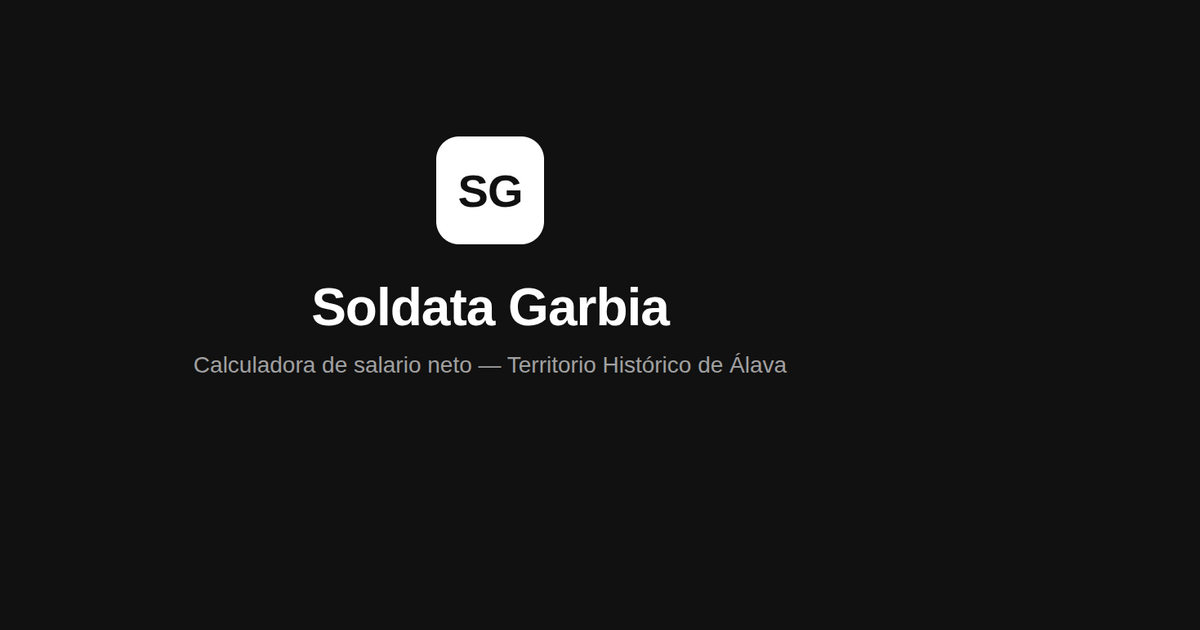
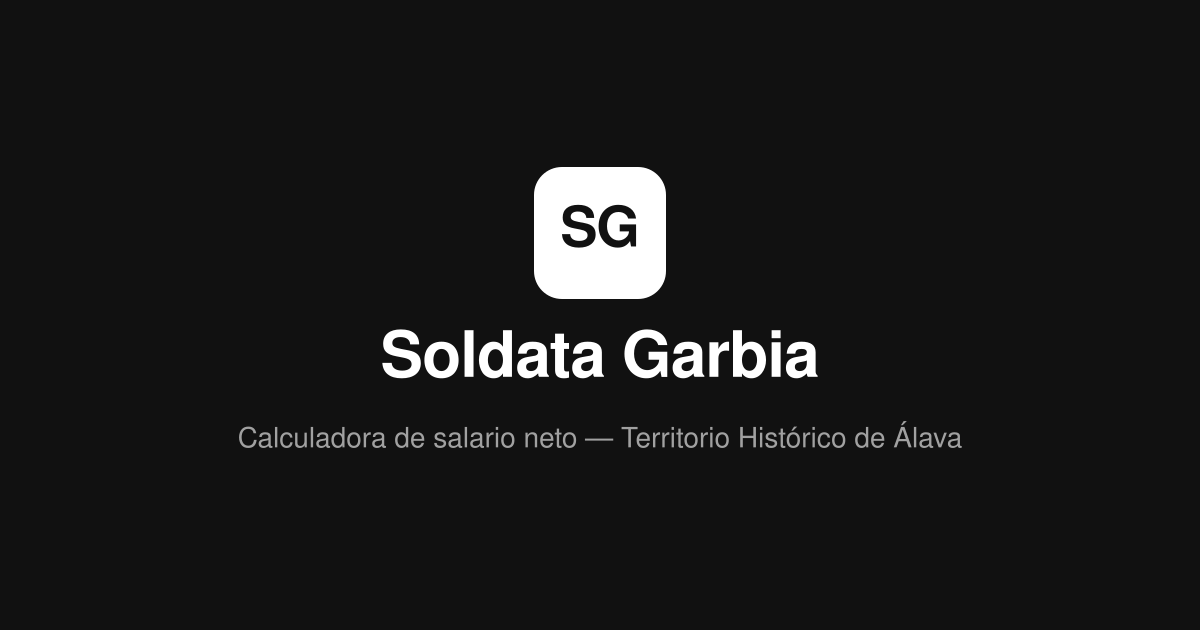
Fix OG image centering and language switcher styling
The og-image.png was generated via a browser screenshot pipeline
whose viewport didn't actually match the 1200x630 box the HTML
specified, so the content rendered top-heavy instead of centered.
Rebuilt it by rasterizing an SVG directly at the exact target
dimensions, sidestepping the browser entirely.

The Ikurriña button now mirrors the ES button's states instead of a
selection ring: unchanged when unselected, a black tint overlay when
selected (in place of a solid background swap, since the flag itself
needs to stay visible), and a lighter version of that same tint on
hover.

Changed region(s): [[0.1542, 0.2111, 0.6783, 0.6032], [0.185, 0.6635, 0.8017, 0.7238]]

diff --git a/src/components/LanguageSwitcher.tsx b/src/components/LanguageSwitcher.tsx
@@ -36,12 +36,16 @@ export function LanguageSwitcher() {
         aria-label="Euskara"
         aria-pressed={actual === "eu"}
         onClick={() => i18n.changeLanguage("eu")}
-        className={cn(
-          "relative w-9 overflow-hidden p-0",
-          actual === "eu" && "ring-2 ring-foreground ring-offset-2",
-        )}
+        className="group relative w-9 overflow-hidden p-0"
       >
         <IkurrinaIcon className="absolute inset-0 size-full" />
+        <span
+          aria-hidden="true"
+          className={cn(
+            "absolute inset-0 transition-colors",
+            actual === "eu" ? "bg-black/45" : "bg-transparent group-hover:bg-black/10",
+          )}
+        />
       </Button>
     </div>
   );
